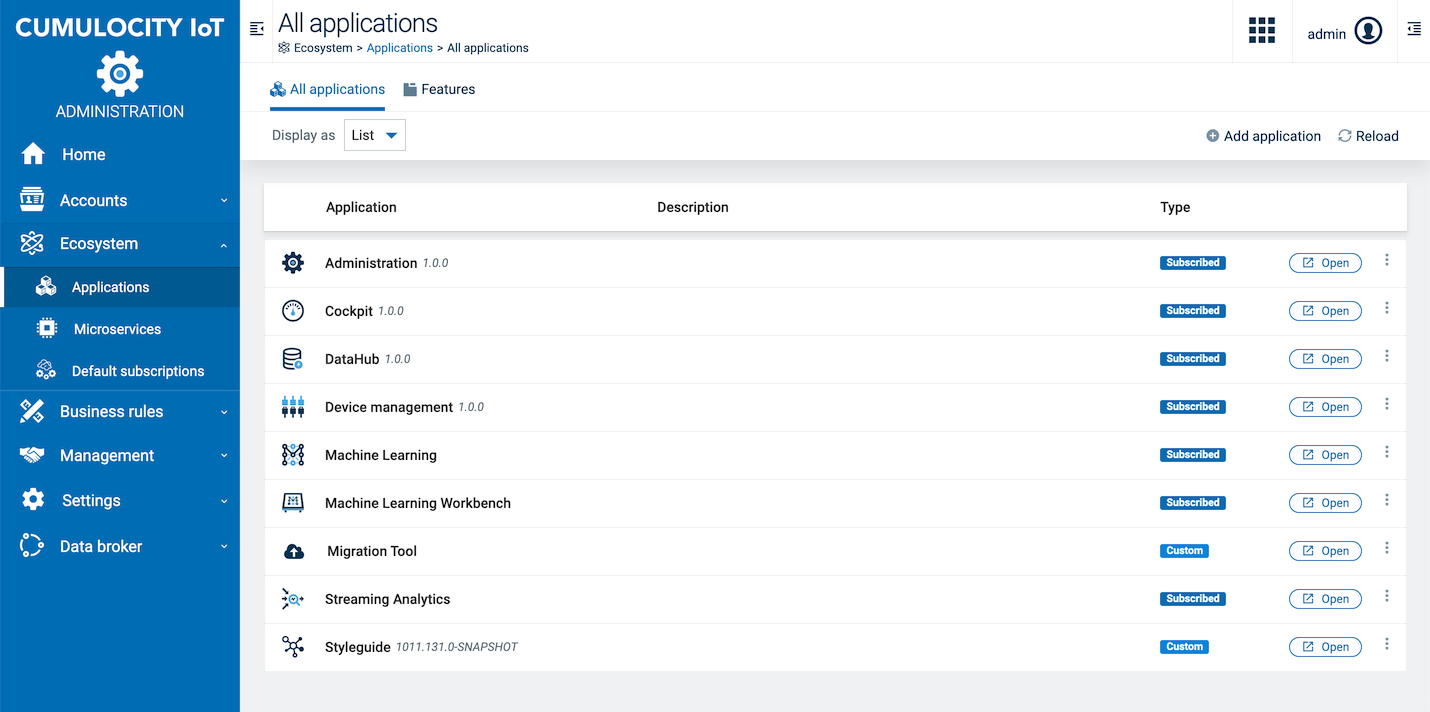
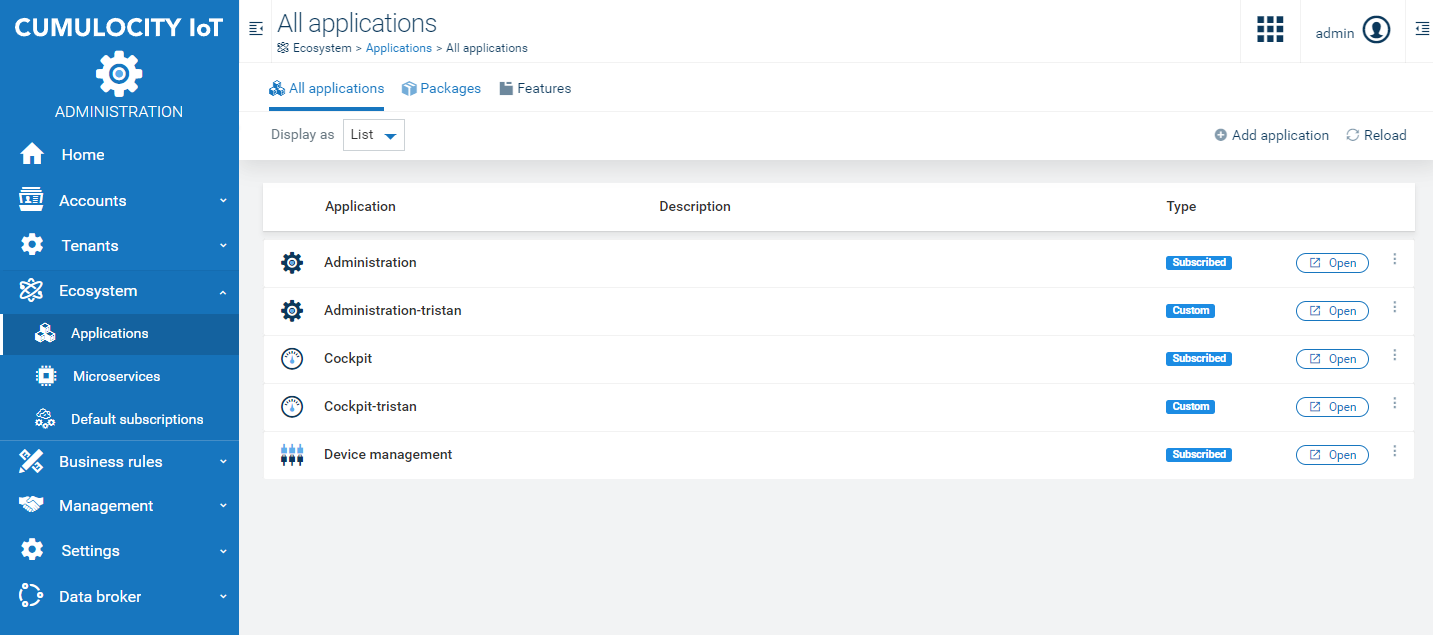
MTM-46009 Added a users guide for the microfrontends feature.

diff --git a/content/users-guide/administration-bundle/managing-applications.md b/content/users-guide/administration-bundle/managing-applications.md
@@ -131,8 +131,9 @@ Click **Add application** at the top right of the **All applications** tab.
 
 In the resulting dialog box, select one of the following methods:
 
-* [Upload web application](#uploading-zip-files) - by dropping a ZIP file or browsing for it in your file system.
+* [Upload web application](#uploading-zip-files) - by dropping a ZIP file or browsing for it in your file system
 * [External application](#external-application) - by linking to an application running elsewhere
+* [Install from available packages](#blueprint-application) - by selecting a package blueprint
 * [Duplicate existing application](#clone-application) - by creating a copy of an existing application
 
 <a name="uploading-zip-files"></a>
@@ -159,6 +160,21 @@ The ZIP file must contain the *index.html* and *cumulocity.json* in its root dir
 3. In the resulting dialog box, enter the name of the application. The name will be shown as title of the application.
 5. Enter an application key, used to identify this application.
 6. Enter the external URL where the application can be reached.
+7. Click **Save** to create the application.
+
+For details on the fields, see also [Application properties](#application-properties) below.
+
+<a name="blueprint-application"></a>
+##### To install an application from a blueprint
+
+1. Click **Add application** at the top right of the **All applications** tab.
+2. Select **Install from available packages**.
+<br><br>
+<img src="/images/users-guide/Administration/admin-application-blueprint-install.png" alt="Blueprint package">
+<br><br>
+3. In the resulting dialog box, enter the name of the application. The name will be shown as title of the application.
+5. Enter an application key, used to identify this application.
+6. Enter the path where the application can be reached.
 7. Click **Save** to create the application.
 
 For details on the fields, see also [Application properties](#application-properties) below.
@@ -242,6 +258,13 @@ In the **Properties** tab, each application will show the following information,
 </tbody>
 </table>
 
+### Application plugins
+
+To display a grid of all plugins installed on an application click on the **Plugins** tab.
+
+<img src="/images/users-guide/Administration/admin-application-plugins-grid.png" alt="Plugins grid" style="max-width: 100%">
+
+In the **Plugins** tab one can extend the current application by installing or removing plugins. Additionally the view offers a grid view of all currently installed plugins.
 
 <a name="editing-and-removing"></a>
 ### To edit an application
@@ -295,6 +318,35 @@ If a hosted application is not deployed correctly, users may reactivate it.
 3. In the **Activity log** section, open the context menu for the desired version by clicking the menu icon and select **Reactivate**.
 
 The selected application will be reactivated by removing the respective files from the application directory and unpacking the host application package again.
+
+### Packages
+
+The Microfrontends feature offers better shareability and reusability of UI features across the different applications in the form of packages. With Microfrontends, UI features can now be developed as packages and added to an application without coding knowledge. Users have the ability to develop two types of applications:
+
+- **Plugins** can be used to extend existing applications without the need of re-building the application.
+- **Blueprints** are compositions of multiple UI functionalities which can be hosted by the platform and can be used to create a new applications from scratch.
+
+Packages are compositions of plugins and blueprints which can be packed together in a single package and can be deployed to the platform. They are located in the "Packages" tab in the "Applications" page.
+
+To add a new package click on the "Add Package" button.
+
+<img src="/images/users-guide/Administration/admin-application-packages.png" alt="Packages view">
+
+By clicking on a package, one can view additional data related to the package such as "Package overview" which includes description and images as well as some meta information which is taken from the "package.json".
+
+Additionally, it is possible to view all available plugins within the selected package on the right hand side. To install a plugin simply click on the "Install plugin" button and select the desired application.  
+
+<img src="/images/users-guide/Administration/admin-application-packages-info.png" alt="Packages overview">
+
+In the archives tab, one can see all previously uploaded binaries related to the current package. The binaries displayed in that view can be downloaded by clicking on the three dots next to each archive.
+
+<img src="/images/users-guide/Administration/admin-application-packages-archives.png" alt="Archive view">
+
+In the versions tab it is possible to select or upload different versions. Versions will indicate the state of the package. They can be used to verify whether a certain package is outdated and needs to be updated. By clicking on a version it is possible to observe additional information such as package contents, applications or plugins. Tags can be used to give versions meaningful names. The "latest" tag is used to indicate the default version which will be chosen in case no tag is provided. The "latest" tag is set by default to the latest version whenever a version is uploaded without a given tag.
+
+To switch to a different version click on the three dots next to the desired version and click "Set as latest". To delete a version click "Delete" in the external menu.
+
+<img src="/images/users-guide/Administration/admin-application-packages-versions.png" alt="Archive view">
 
 ### Features
 
